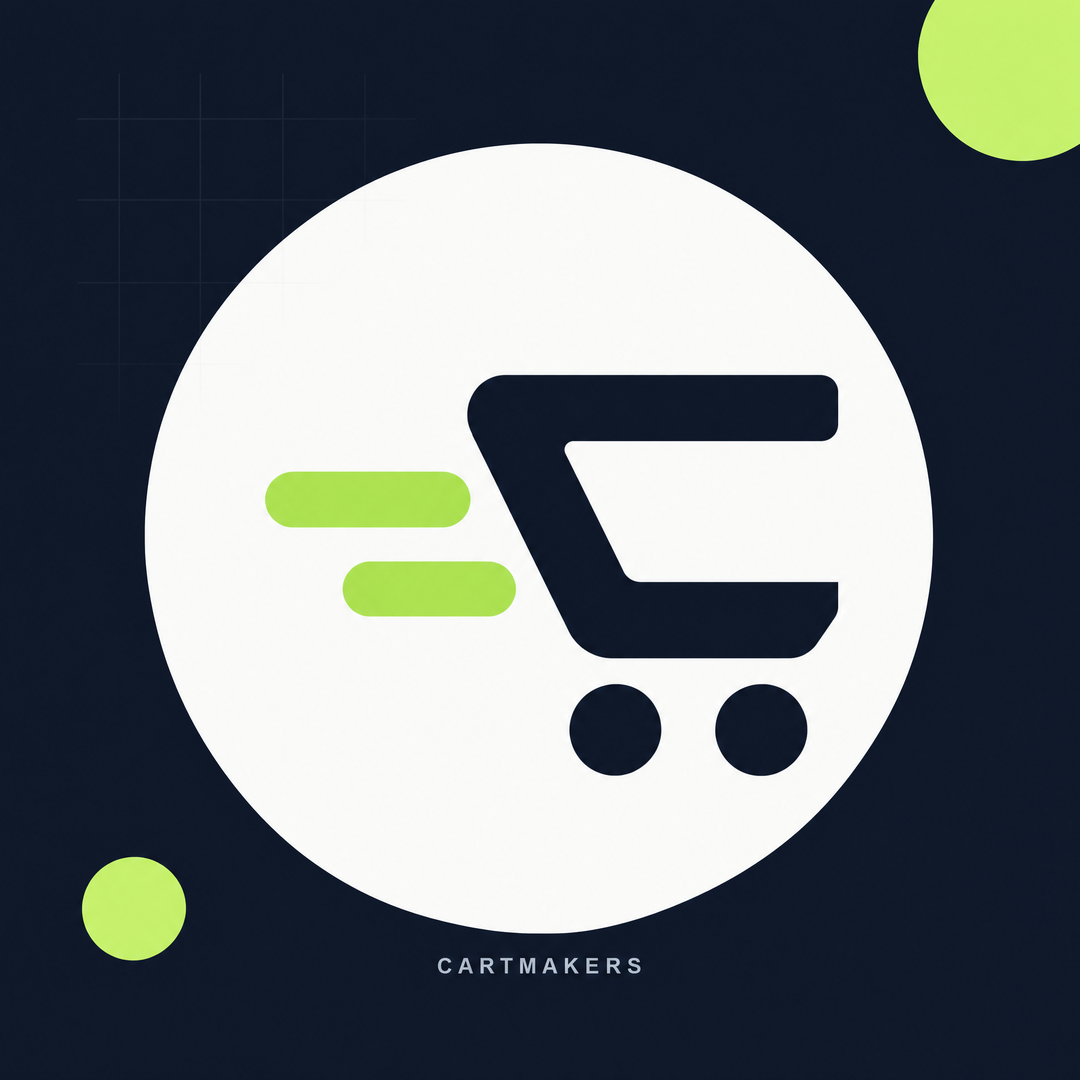
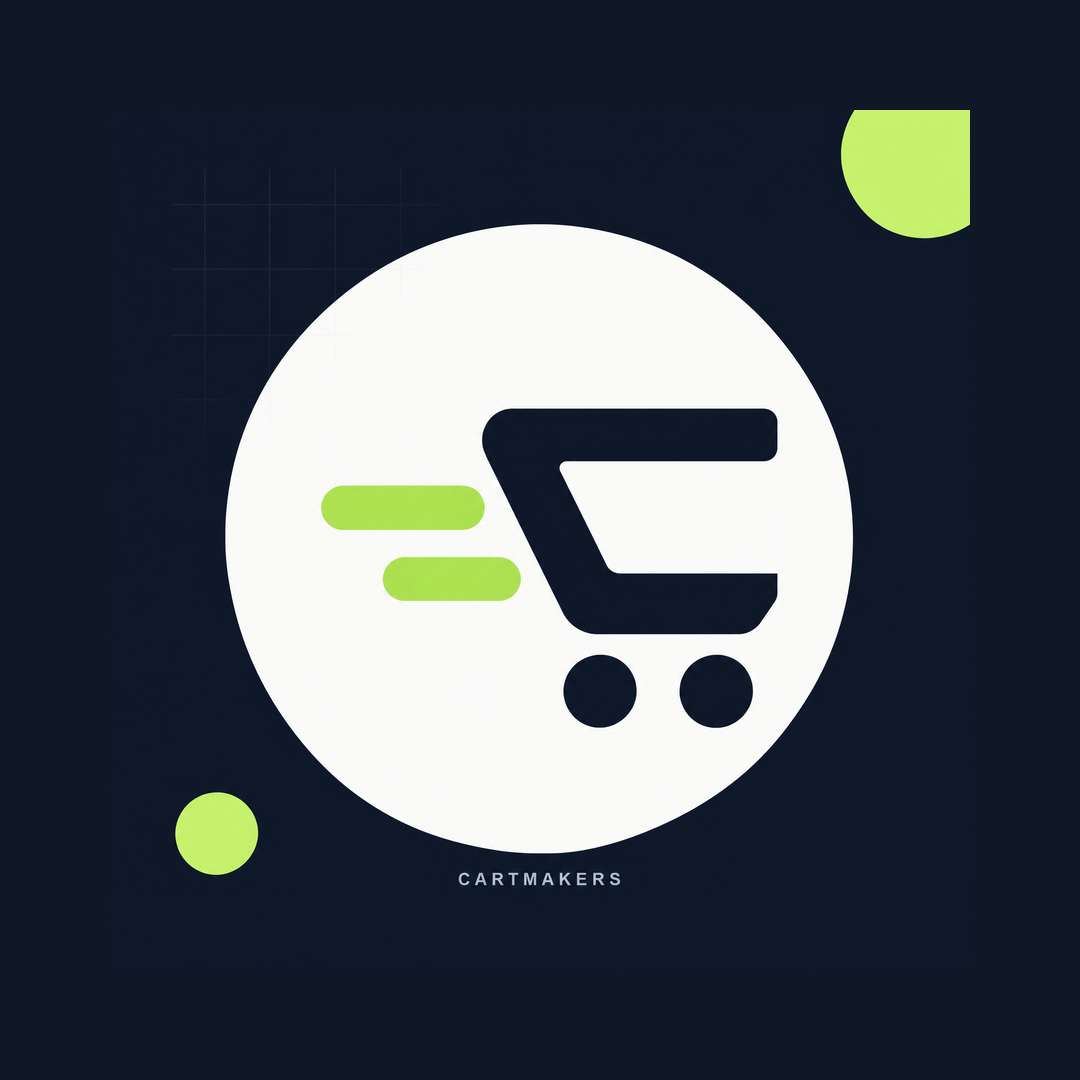
Add safe social platform assets

Changed region(s): [[0.0611, 0.1222, 0.8861, 0.9167], [0.7639, 0.0, 1.0, 0.2444]]

diff --git a/HANDOFF.md b/HANDOFF.md
@@ -159,6 +159,8 @@ npm run preview -- --host 0.0.0.0 --port 4174
 - تم تعديل الكافر ليعود إلى Dark Mode مثل النسخة السابقة، مع استخدام `cartmakers-new-logo-dark-flat.png` المسطّح على نفس لون الخلفية `#101828`؛ لا يوجد مستطيل أبيض أو هالة حول اللوجو.
 - تم استبدال صورة البروفايل بنسخة Avatar مركزة على رمز العربة فقط، بمقاس 1080×1080 ومصممة للقص الدائري في Facebook وInstagram وTikTok. الملف الأساسي: `brand-social/Social Profile Pic/cartmakers-profile-1080.png`.
 - تم تحسين جودة Avatar باستخدام معالجة رفع دقة مع الحفاظ على التصميم، وأصبحت هناك نسخة HD بدقة 1920×1920 باسم `cartmakers-profile-social-1080-hd.png`، مع نسخة 1080 محسنة للرفع المباشر.
+- بسبب قص Instagram للصورة الدائرية، تم اعتماد `cartmakers-profile-platform-safe-1080.png` كنسخة البروفايل الأساسية بمساحة أمان أكبر، مع نسخة HD آمنة 1920×1920.
+- تم تجهيز أغلفة منفصلة داخل `Social Profile Pic`: Facebook بمقاس 1640×856، وInstagram Story/Reel بمقاس 1080×1920، وTikTok Video Cover بمقاس 1080×1920. إنستجرام وتيك توك لا يملكان Cover ثابتًا لصفحة البروفايل مثل فيسبوك.
 
 الخطوط الحالية محملة من Google Fonts داخل `src/styles.css`:
 

diff --git a/brand-social/README.md b/brand-social/README.md
@@ -17,3 +17,13 @@
 The final deliverables are also duplicated in `Social Profile Pic/` for direct handoff with the brand folder.
 
 نسخة البروفايل الحالية مركزة على رمز العربة فقط بدون نص طويل، حتى تظل واضحة داخل دائرة المنصة وعلى الشاشات الصغيرة.
+
+
+## مقاسات المنصات
+
+- `cartmakers-profile-platform-safe-1080.png` — Avatar آمن 1080×1080، مناسب للصورة الدائرية في Facebook وInstagram وTikTok بدون قص للوجو.
+- `cartmakers-cover-facebook-1640x856.png` — غلاف Facebook أفقي عالي الدقة.
+- `cartmakers-cover-instagram-1080x1920.png` — غلاف Story/Reel عمودي لإنستجرام؛ إنستجرام لا يملك Cover ثابتًا لصفحة البروفايل مثل فيسبوك.
+- `cartmakers-cover-tiktok-1080x1920.png` — غلاف/Thumbnail عمودي لفيديوهات TikTok؛ تيك توك لا يملك Cover ثابتًا لصفحة البروفايل.
+
+تم وضع العناصر المهمة داخل منطقة آمنة في المنتصف حتى لا تختفي تحت القص أو عناصر واجهة المنصة.
